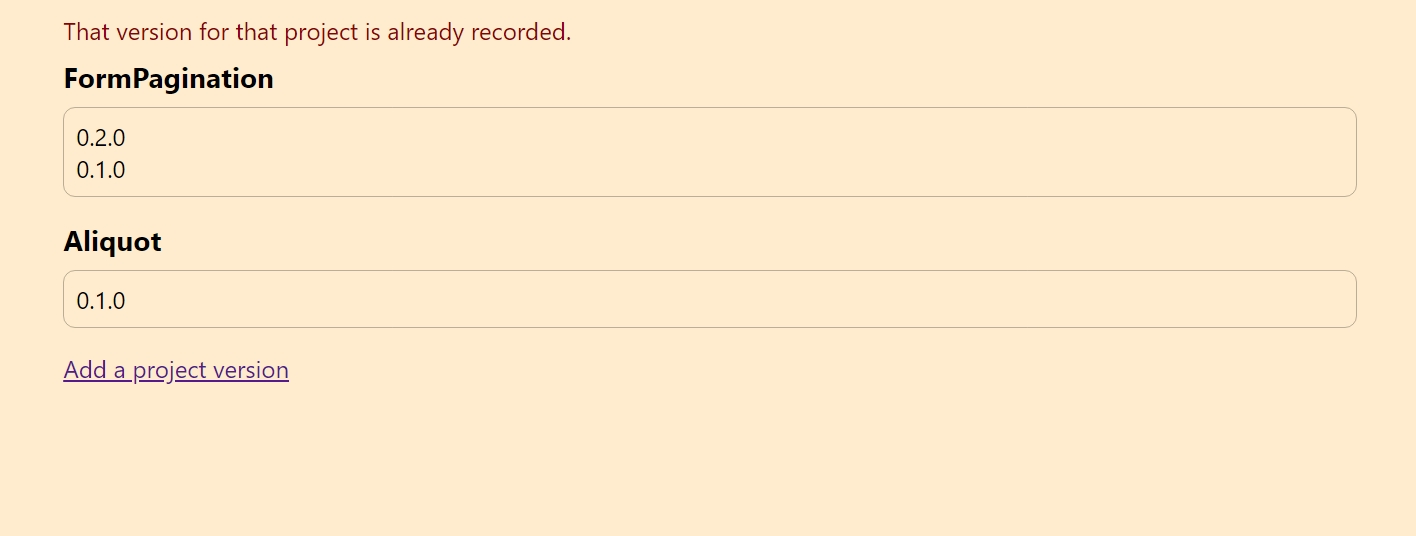
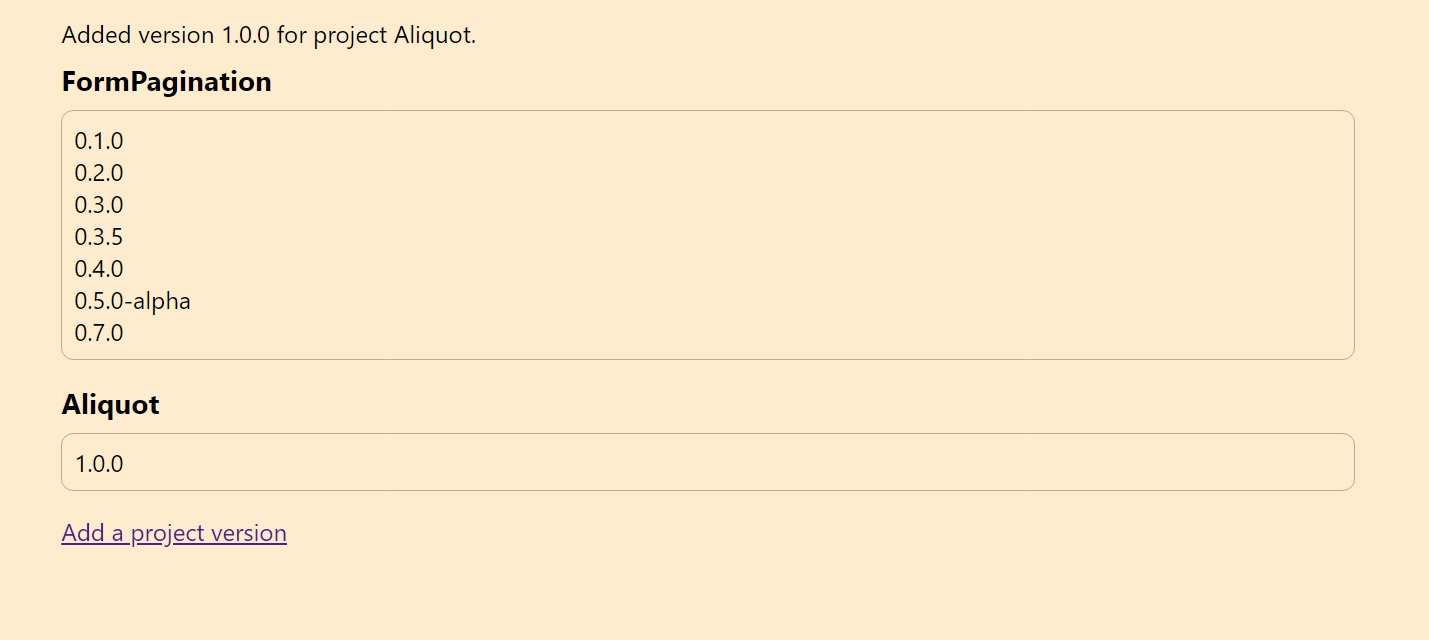
Added sorting of project versions, at data layer.

diff --git a/www/js/projects.js b/www/js/projects.js
@@ -21,7 +21,7 @@ const SEMVER_REGEX = new RegExp(
     + "(?:\\.(?:0|[1-9]\\d*|\d*[a-zA-Z-][0-9a-zA-Z-]*))*"
     + ")"
     + ")?"
-    + "(?:\\+([0-9a-zA-Z-]+(?:\\.[0-9a-zA-Z-]+)*))?$", "g");
+    + "(?:\\+([0-9a-zA-Z-]+(?:\\.[0-9a-zA-Z-]+)*))?$");
     // From Semantic Versioning spec.
 
 const ENGLISH_ALNUM = /^\w[\w\-]*$/;
@@ -56,14 +56,13 @@ function addProjectVersion(projectName, semanticVersion)
     else if (existingProject)
     {
         existingProject.versions.push(semanticVersion);
+        existingProject.versions.sort(semanticVersionComparator);
     }
     else
     {
         projects.push({
             "name": projectName,
-            "versions": [
-                semanticVersion
-            ]
+            "versions": [ semanticVersion ]
         });
     }
     
@@ -71,13 +70,44 @@ function addProjectVersion(projectName, semanticVersion)
     window.sessionStorage.setItem("projects", json);
 }
 
+function semanticVersionComparator(a, b)
+{
+    function convertGroups(groups)
+    {
+        groups[1] = parseInt(groups[1]);
+        groups[2] = parseInt(groups[2]);
+        groups[3] = parseInt(groups[3]);
+        // Leave the remaining groups be.
+    }    
+    let aGroups = isSemanticVersion(a);
+    let bGroups = isSemanticVersion(b);
+    convertGroups(aGroups);
+    convertGroups(bGroups);
+
+    let majorDiff = aGroups[1] - bGroups[1];
+    let minorDiff = aGroups[2] - bGroups[2];
+    let patchDiff = aGroups[3] - bGroups[3];
+    if (majorDiff) return majorDiff;
+    if (minorDiff) return minorDiff;
+    if (patchDiff) return patchDiff;
+
+    /*
+    * If all are identical then we're supposed to lexically
+    * compare the pre-release version or build metadata.
+    * But I'm not sure how to do that given our capture
+    * group situation (I wanted to substring past the primary
+    * version string). So I'll just consider them equal in
+    * this app.
+    */
+    return 0;
+}
+
 function isValidProjectName(string)
 {
-    return string.match(ENGLISH_ALNUM) != null;
+    return string.match(ENGLISH_ALNUM);
 }
 
 function isSemanticVersion(string)
-{    
-    let captureGroups = string.match(SEMVER_REGEX);
-    return captureGroups != null;
+{
+    return string.match(SEMVER_REGEX);
 }

diff --git a/README.md b/README.md
@@ -2,4 +2,4 @@
 
 A test app for Cordova. A usual simple browser app, presently using the Web Storage API to persist data across pages, for just a bit of user interaction.
 
-![From top to bottom: "That version for that project is already recorded." red error message, above two titled boxes "FormPagination" and "Aliquot", each having versions within like "0.2.0", "0.1.0" on each line. And then a 'Add a project version' link on the bottom.](Screenshot.jpeg)
+!["Added version 1.0.0 for project Aliquot.", log message above two titled boxes "FormPagination" and "Aliquot", each having versions within like "0.2.0", "0.1.0" each on a line. The versions are sorted. And then a 'Add a project version' link on the bottom.](Screenshot.jpeg)
